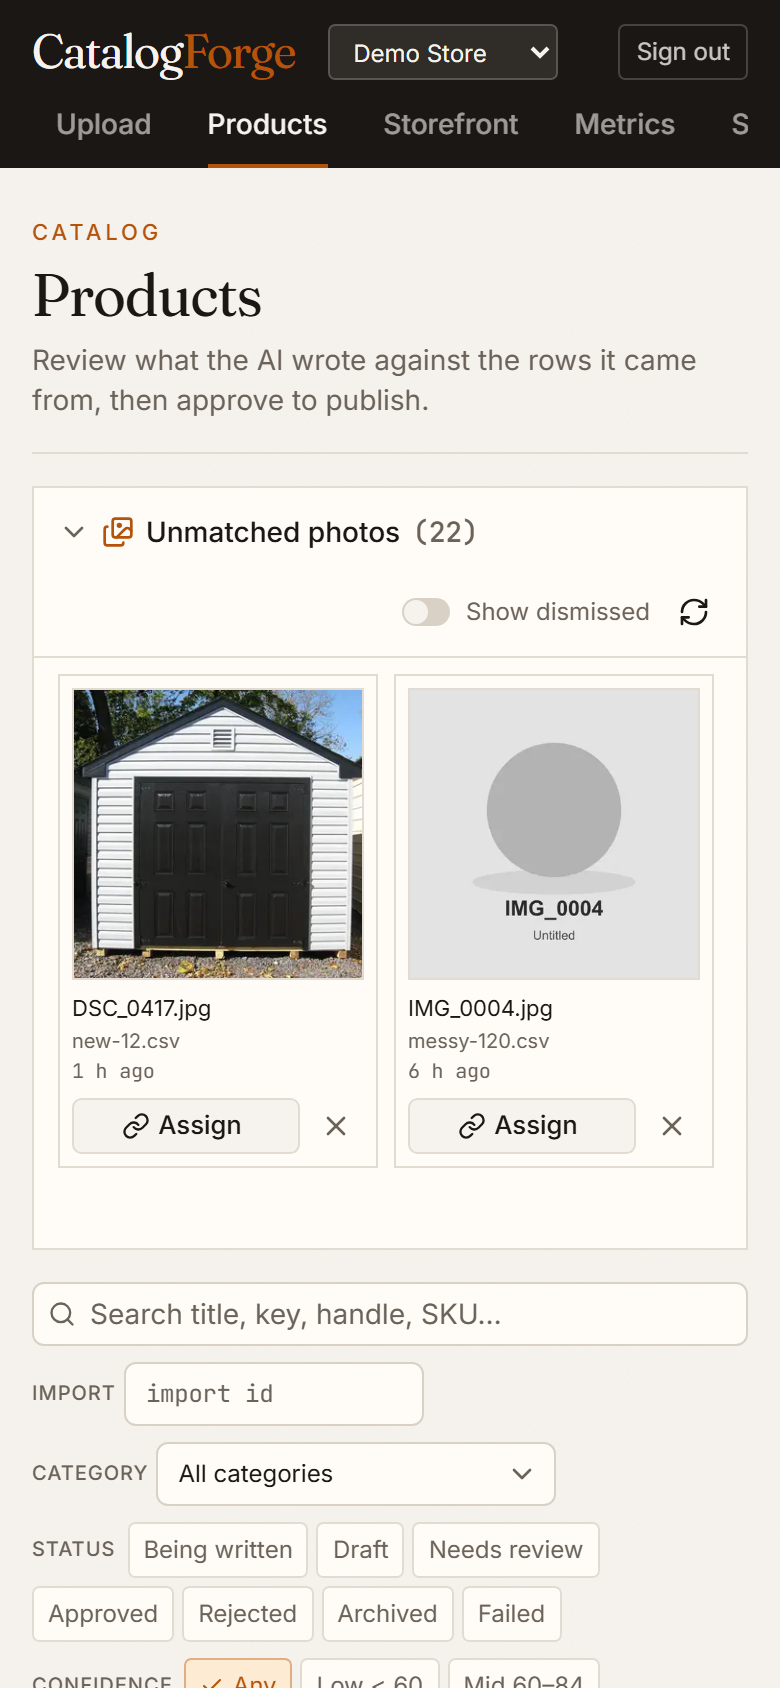
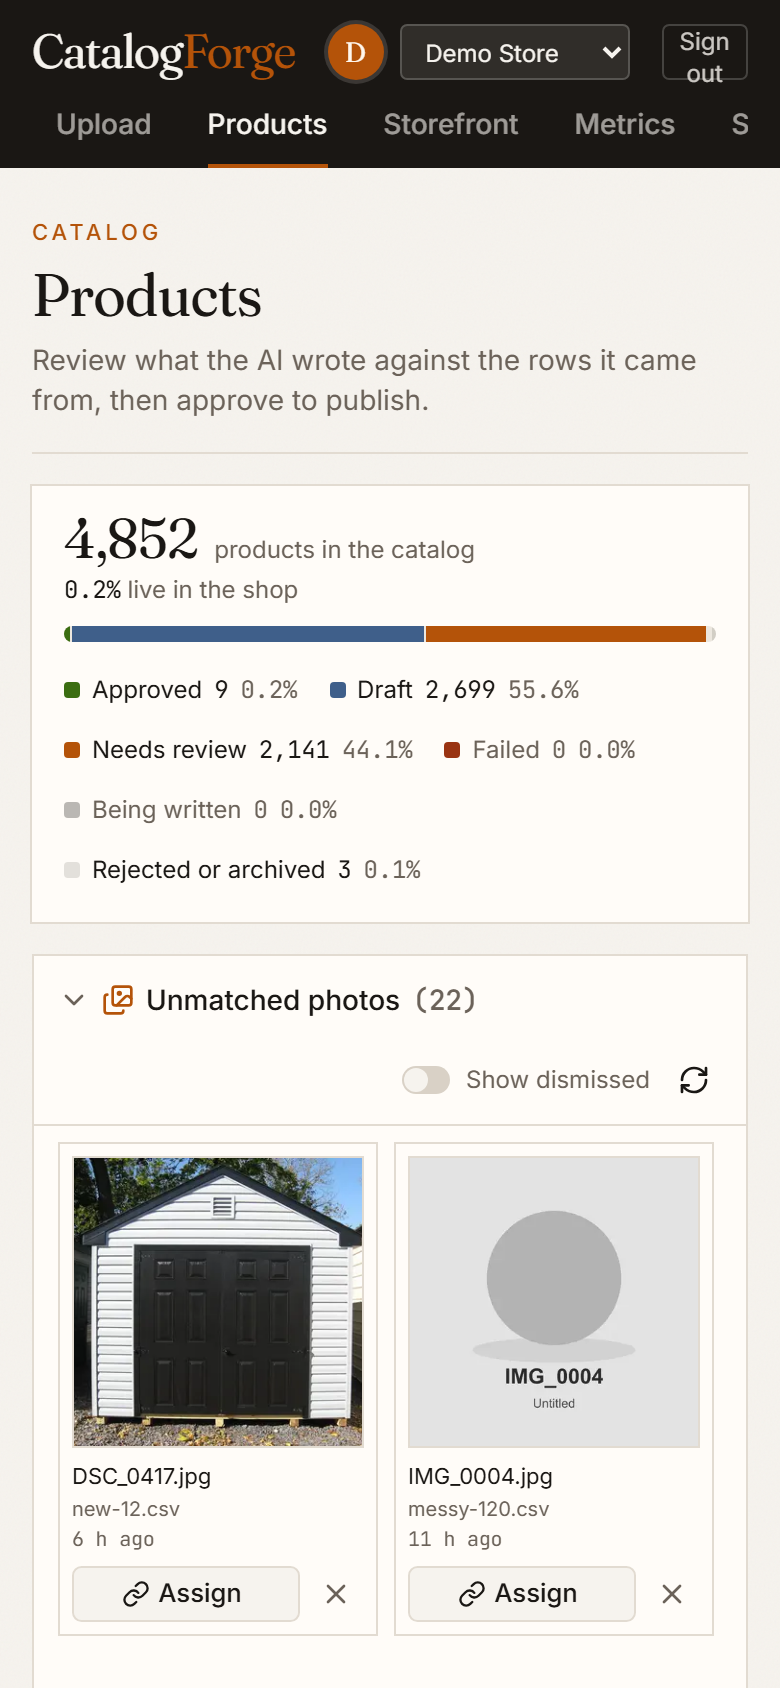
docs: screenshots of the new landing, dashboard and shop; README notes on the overview band, status strip, headline figures and the shop home

diff --git a/README.md b/README.md
@@ -146,13 +146,13 @@ Local machine, Docker Postgres. The first block uses the demo provider (determin
 ![The shop: collection page with real product photos](docs/screenshots/09-storefront.png)
 ![The shop: product page](docs/screenshots/10-storefront-product.png)
 
-- **Landing (`/`, signed out):** the real German row 8 of `new-12.csv`, mojibake and all, beside the listing CatalogForge published from it in the demo shop, switching between English, German and French with the claims it verified; a thin line that traces the visitor's scroll through the page; eight real messes from the samples shown before and after the cleaner; a "try the cleaner" strip that runs the import's own `src/core/clean` code in the browser on whatever the visitor types; and the measured numbers with how each one is taken.
-- **Upload:** drag-and-drop sheet + photos/ZIP, Fast vs Economy, budget, live SSE progress with a stage stepper, KPIs, sheet mapping, event log and a filterable per-row table with issues and reasons. Also accepts a `mysqldump` / `pg_dump` of a product table (`.sql`, parsed in memory, never executed) and a pasted public Google Sheets link, fetched from docs.google.com only, which then follows the exact same path as an uploaded file. The import page draws a data-hygiene flow: per stage, what the deterministic pipeline did (duplicates collapsed, mojibake and unsafe HTML repaired, prices and units normalised, conflicts and possible duplicates, routing by tier, response-cache hits, claims verified or blocked), every count taken from the tables of record.
-- **Products:** server-side paginated table (10/25/50/100), sorting, search, status and confidence filters, colour-coded confidence with the number always shown, bulk approve with an explicit opt-in for products that need review, bulk "Re-run AI" on a selection with a chosen model tier and prompt version (one audited job per product; products without source rows are skipped and counted), CSV / JSON / Shopify CSV export. An "Unmatched photos" tray above the table lets the merchant assign an orphan photo to any product (search by title, handle or SKU) or dismiss it; assignment is audited and updates a live product's storefront images at once.
+- **Landing (`/`):** the real German row 8 of `new-12.csv`, mojibake and all, beside the listing CatalogForge published from it in the demo shop, switching between English, German and French with the claims it verified; a marquee of the demo shop's real published products, read through the storefront's own 30 s cache; "How it works" as a scroll story whose middle step replays the real event log of the sample import on a compressed clock; a thin line that traces the visitor's scroll to the foot of the page; eight real messes from the samples shown before and after the cleaner; a "try the cleaner" strip that runs the import's own `src/core/clean` code in the browser on whatever the visitor types; a figures band (measured numbers plus counts from the repository, such as the edge cases and tests at the time of writing) with how each one is taken; and a feature grid. A signed-in merchant sees the same page with an "Open dashboard" button.
+- **Upload:** opens on "Your store right now": products live in the shop, waiting for review, imports in the last 7 days and AI spend in the last 30, each with a 14-day sparkline from the tables of record, plus a "Live now" panel that follows a running import stage by stage. Then an illustrated drop zone for sheet + photos/ZIP, Fast vs Economy, budget, the publish-automatically switch, live SSE progress with a stage stepper, KPIs, sheet mapping, event log and a filterable per-row table with issues and reasons. Also accepts a `mysqldump` / `pg_dump` of a product table (`.sql`, parsed in memory, never executed) and a pasted public Google Sheets link, fetched from docs.google.com only, which then follows the exact same path as an uploaded file. The import page draws a data-hygiene flow: per stage, what the deterministic pipeline did (duplicates collapsed, mojibake and unsafe HTML repaired, prices and units normalised, conflicts and possible duplicates, routing by tier, response-cache hits, claims verified or blocked), every count taken from the tables of record.
+- **Products:** a status strip under the title (one stacked bar of approved, draft, needs review, failed and being written, each a filter), then a server-side paginated table (10/25/50/100) with 44 px thumbnails, status pills with an icon, confidence as a number plus a mini bar, sorting, search, status and confidence filters, colour-coded confidence with the number always shown, bulk approve with an explicit opt-in for products that need review, bulk "Re-run AI" on a selection with a chosen model tier and prompt version (one audited job per product; products without source rows are skipped and counted), CSV / JSON / Shopify CSV export. An "Unmatched photos" tray above the table lets the merchant assign an orphan photo to any product (search by title, handle or SKU) or dismiss it; assignment is audited and updates a live product's storefront images at once.
 - **Review drawer:** source rows and photos beside the editable listing; every verified claim is a chip that, on hover or pin, marks the exact quoted words in the source cell; everything the grounding validator blocked is a Guardrail badge ("Blocked 'frost-proof' — source says 'not frost-proof', Row 14 · Notes") pointing at the negation as the supplier wrote it; a "Show cleaning" toggle lists what the cleaner changed before the AI saw the row (raw price cell → cents, units → cm and g, HTML → text, mojibake repairs, colour matches); photos carry their match method and score; optimistic-version saves; translations per locale with manual fixes and Out-of-date flags; approve, send back, reject, re-run with a different model or prompt version, delete/restore.
-- **Storefront:** a real shop, not a preview: header with family menus and leaf counts (chips on phones), an editorial collection band, 4:5 product cards that reveal as they scroll in and swap to a second photo on hover, a swipeable gallery that crossfades on desktop, a buy box that stays in view while the description scrolls, a bag drawer with line steppers and a bounce on the bag badge, breadcrumbs, a details table and related products. Everything is in the visitor's language (country switcher; DE/AT → German, FR → French, else English) with per-field English fallback and a notice, and every animation respects reduced motion.
-- **Metrics:** processed counts and rates, cost over time, model usage, routing, savings meter, a cost-strategies table that prices the same recorded calls four ways (Sonnet everywhere, routed without the prompt cache, actual, actual through the Batch API) with cost per 1,000 products, translation coverage and Out-of-date counts, speed (fastest and slowest import, AI latency), eval runs.
-- **Settings:** store, languages and country map, glossary, API key, budget, chaos panel (inject rate limits, timeouts or invalid JSON at a chosen rate) and a crash button that kills the worker mid-batch: in-flight jobs lose their leases, a fresh worker starts two seconds later and the reaper hands it the abandoned work, while the storefront keeps serving. The chaos panel's fourth knob slips an invented claim into listings so the Guardrail can be watched blocking it. **Webhooks:** register an https endpoint for `import.completed` and `import.needs_attention`, get a signing secret shown once, send a test delivery, and read the per-webhook delivery log (status, HTTP code, attempts, next try, error).
+- **Storefront:** a real shop, not a preview: an announcement strip and mega menus with a photo per category, a slideshow of the newest products, "Shop by category" photo tiles, 4:5 product cards with colour swatches, a Quick view dialog and a second photo on hover, a product page with hover zoom, a swipeable gallery that crossfades on desktop, a buy box that stays in view (a sticky bar on phones), a line confirming every claim was checked against the sheet, a bag drawer with line steppers and a bounce on the bag badge, breadcrumbs, a details table and related products. Everything is in the visitor's language (country switcher; DE/AT → German, FR → French, else English) with per-field English fallback and a notice, and every animation respects reduced motion.
+- **Metrics:** a headline band (products processed, listings written, translations made, AI spend, cost per product, median import time), then processed counts and rates, cost over time, model usage, routing, savings meter, a cost-strategies table that prices the same recorded calls four ways (Sonnet everywhere, routed without the prompt cache, actual, actual through the Batch API) with cost per 1,000 products, translation coverage and Out-of-date counts, speed (fastest and slowest import, AI latency), eval runs.
+- **Settings:** store, languages and country map, glossary, API key, budget (each section with an icon and a one-line purpose), chaos panel (inject rate limits, timeouts or invalid JSON at a chosen rate) and a crash button that kills the worker mid-batch: in-flight jobs lose their leases, a fresh worker starts two seconds later and the reaper hands it the abandoned work, while the storefront keeps serving. The chaos panel's fourth knob slips an invented claim into listings so the Guardrail can be watched blocking it. **Webhooks:** register an https endpoint for `import.completed` and `import.needs_attention`, get a signing secret shown once, send a test delivery, and read the per-webhook delivery log (status, HTTP code, attempts, next try, error).
 
 ## Public API
 
